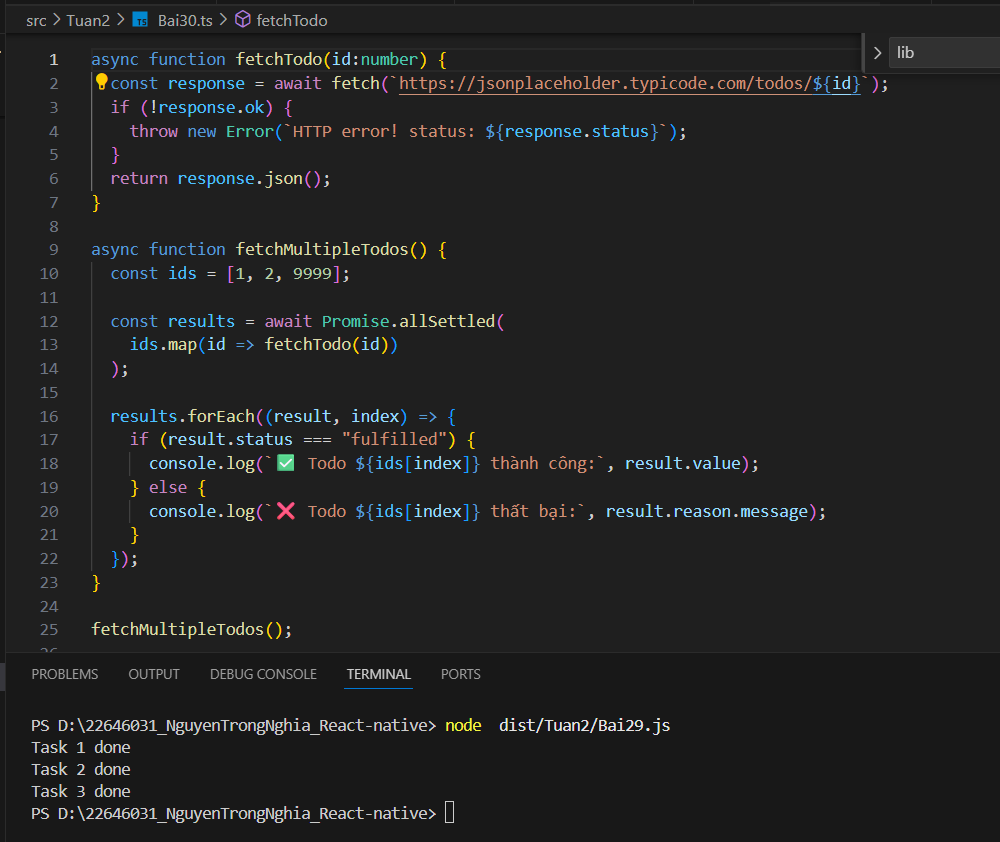
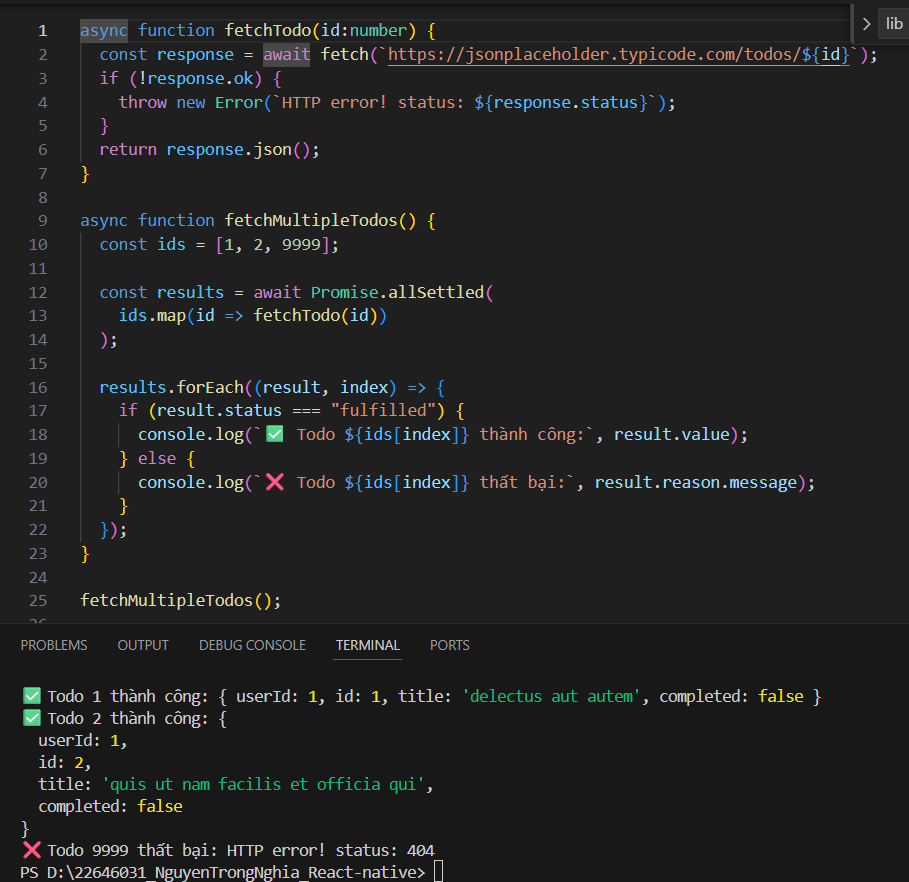
bai 30 cua tuan 2

diff --git a/dist/Tuan2/Bai30.js b/dist/Tuan2/Bai30.js
@@ -1,0 +1,22 @@
+"use strict";
+Object.defineProperty(exports, "__esModule", { value: true });
+async function fetchTodo(id) {
+    const response = await fetch(`https://jsonplaceholder.typicode.com/todos/${id}`);
+    if (!response.ok) {
+        throw new Error(`HTTP error! status: ${response.status}`);
+    }
+    return response.json();
+}
+async function fetchMultipleTodos() {
+    const ids = [1, 2, 9999];
+    const results = await Promise.allSettled(ids.map(id => fetchTodo(id)));
+    results.forEach((result, index) => {
+        if (result.status === "fulfilled") {
+            console.log(`✅ Todo ${ids[index]} thành công:`, result.value);
+        }
+        else {
+            console.log(`❌ Todo ${ids[index]} thất bại:`, result.reason.message);
+        }
+    });
+}
+fetchMultipleTodos();

diff --git a/dist/Tuan2/Bai30.d.ts b/dist/Tuan2/Bai30.d.ts
@@ -1,0 +1,2 @@
+export {};
+//# sourceMappingURL=Bai30.d.ts.map
